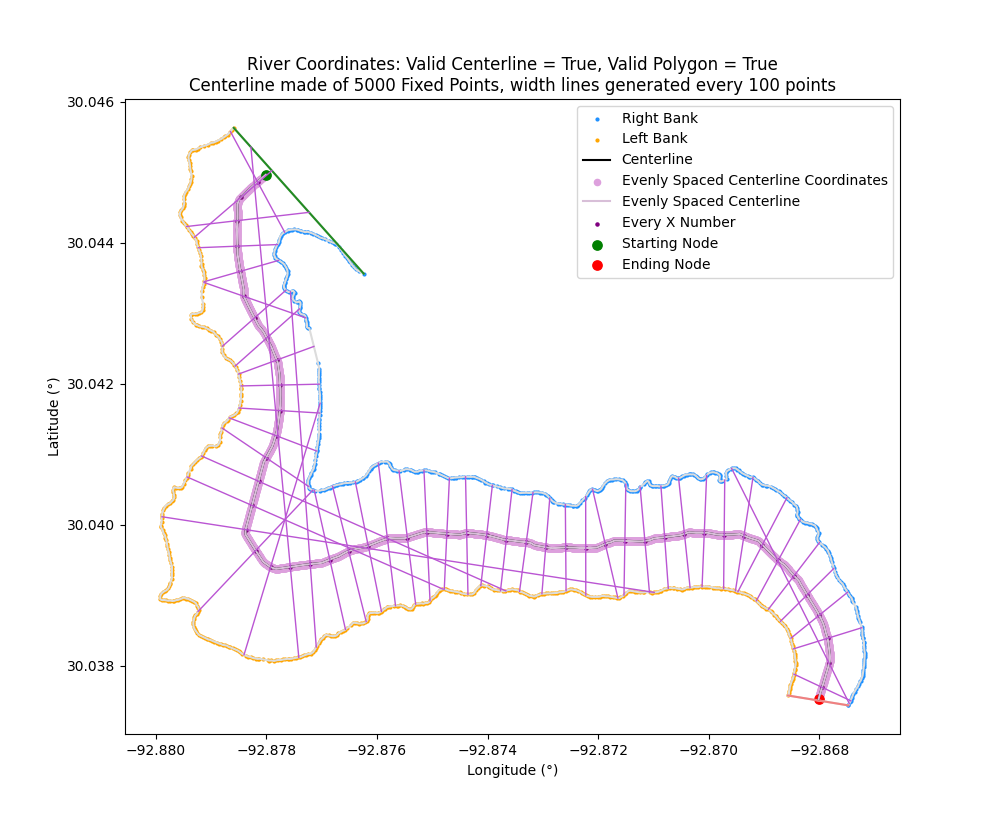
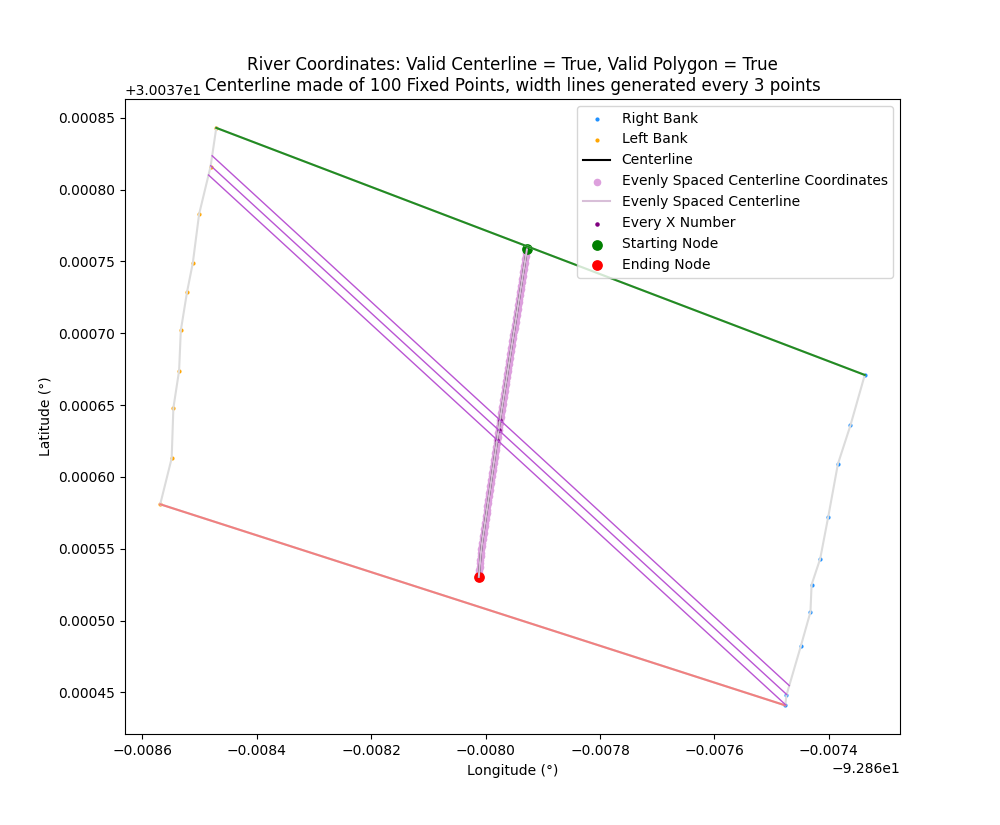
only display width lines that do not touch artifical top/bottom

diff --git a/centerline_width/centerline.py b/centerline_width/centerline.py
@@ -5,6 +5,7 @@ import numpy as np
 import pandas as pd
 import networkx as nx
 from shapely.geometry import Point, Polygon, LineString
+from scipy.ndimage import gaussian_filter1d
 
 # Internal centerline_width reference to access functions, global variables, and error handling
 import centerline_width
@@ -59,6 +60,7 @@ def networkXGraphShortestPath(all_points_dict, starting_node, ending_node):
 	if starting_node is not None:
 		graph_connections = nx.Graph()
 		node_as_keys_pos_values = {}
+		logger.info("Attempting to determine a valid centerline path")
 		for start_point, end_point_list in all_points_dict.items():
 			node_as_keys_pos_values[start_point] = (start_point[0], start_point[1])
 			graph_connections.add_node(start_point, pos=(start_point[0], start_point[1]))
@@ -110,6 +112,12 @@ def evenlySpacedCenterline(centerline_coordinates=None, number_of_fixed_points=1
 
 	return interpolated_centerline_coordinates
 
+def gaussianSmoothedCoordinates(centerline_coordinates=None, gaussian_sigma=None):
+	print("sigma = {0}".format(gaussian_sigma))
+	print("TODO: gaussian_filter1d does not work for 2D features")
+	#gaussian_filter1d(x, 0.1)
+	return centerline_coordinates
+
 def riverWidthFromCenterlineCoordinates(csv_data=None,
 										centerline_coordinates=None,
 										transect_span_distance=3,
@@ -127,7 +135,11 @@ def riverWidthFromCenterlineCoordinates(csv_data=None,
 		df = df.head(optional_cutoff)
 	left_bank_coordinates, right_bank_coordinates = centerline_width.leftRightCoordinates(df)
 	if bank_polygon is None:
-		bank_polygon, _, _ = centerline_width.generatePolygon(left_bank_coordinates, right_bank_coordinates)
+		bank_polygon, top_bank, bottom_bank = centerline_width.generatePolygon(left_bank_coordinates, right_bank_coordinates)
+	else:
+		left_bank_lst, right_bank_lst = centerline_width.leftRightCoordinates(df)
+		top_bank = LineString([Point(left_bank_lst[::-1][0][0],left_bank_lst[::-1][0][1]), Point(right_bank_lst[::-1][0][0], right_bank_lst[::-1][0][1])])
+		bottom_bank = LineString([Point(right_bank_lst[0][0], right_bank_lst[0][1]), Point(left_bank_lst[0][0], left_bank_lst[0][1])])
 
 	# Average slopes for every n points to chart
 	centerline_slope = {}
@@ -153,6 +165,17 @@ def riverWidthFromCenterlineCoordinates(csv_data=None,
 			#print(normal_of_slope)
 			centerline_slope[group_points[middle_of_list]] = normal_of_slope
 
+	def intersectsTopOrBottomOfBank(point1, point2):
+		# returns True/False if the points lie on the 'false' top/bottom of the river
+		# TODO TODO
+		points_intersect_false_edges = False
+		# avoding floating point precession errors when determining if point lies within the line
+		if top_bank.distance(point1) < 1e-8 or bottom_bank.distance(point1) < 1e-8:
+			points_intersect_false_edges = True
+		if top_bank.distance(point2) < 1e-8 or bottom_bank.distance(point2) < 1e-8:
+			points_intersect_false_edges = True
+		return points_intersect_false_edges
+
 	# Generate a list of lines from the centerline point with its normal
 	min_x, min_y, max_x, max_y = bank_polygon.bounds
 	for centerline_point, slope in centerline_slope.items():
@@ -160,11 +183,12 @@ def riverWidthFromCenterlineCoordinates(csv_data=None,
 		right_y = slope * (max_x - centerline_point[0]) + centerline_point[1]
 
 		# Save the points where they intersect the polygon
-		sloped_line = LineString([(min_x, left_y), (max_x, right_y)])
-		line_intersection_points = bank_polygon.exterior.intersection(sloped_line)
-		if len(line_intersection_points.geoms) == 2:#and slope < -0.37: # TODO: only collect the closest points
-			left_width_coordinates[centerline_point] = (line_intersection_points.geoms[0].x, line_intersection_points.geoms[0].y)
-			right_width_coordinates[centerline_point] = (line_intersection_points.geoms[1].x, line_intersection_points.geoms[1].y)
+		sloped_line = LineString([(min_x, left_y), (max_x, right_y)]) # sloped line from the centerpoint
+		line_intersection_points = bank_polygon.exterior.intersection(sloped_line) # points where the line intersects the polygon
+		if len(line_intersection_points.geoms) == 2: # TODO: only collect the closest points
+			if not intersectsTopOrBottomOfBank(line_intersection_points.geoms[0], line_intersection_points.geoms[1]):
+				left_width_coordinates[centerline_point] = (line_intersection_points.geoms[0].x, line_intersection_points.geoms[0].y)
+				right_width_coordinates[centerline_point] = (line_intersection_points.geoms[1].x, line_intersection_points.geoms[1].y)
 		else:
 			# line intersects to polygon at multiple points, find the closest two points to chart
 			distances_between_centerline_and_point = []
@@ -176,8 +200,9 @@ def riverWidthFromCenterlineCoordinates(csv_data=None,
 			index_of_sorted_list = sorted(range(len(distances_between_centerline_and_point)),key=distances_between_centerline_and_point.__getitem__)
 			smallest_point = line_intersection_points.geoms[index_of_sorted_list[0]]
 			second_smallest_point = line_intersection_points.geoms[index_of_sorted_list[1]]
-			left_width_coordinates[centerline_point] = (smallest_point.x, smallest_point.y)
-			right_width_coordinates[centerline_point] = (second_smallest_point.x, second_smallest_point.y)
+			if not intersectsTopOrBottomOfBank(smallest_point, second_smallest_point):
+				left_width_coordinates[centerline_point] = (smallest_point.x, smallest_point.y)
+				right_width_coordinates[centerline_point] = (second_smallest_point.x, second_smallest_point.y)
 
 	return right_width_coordinates, left_width_coordinates
 

diff --git a/centerline_width/plotDiagrams.py b/centerline_width/plotDiagrams.py
@@ -22,9 +22,9 @@ def plotCenterline(csv_data=None,
 					displayVoronoi=False,
 					displayCenterline=True,
 					plot_width_lines=False,
-					n_interprolate_centerpoints=100,
+					n_interprolate_centerpoints=None,
 					transect_span_distance=3,
-					gaussian_filter_sigma=0,
+					gaussian_filter_sigma=None,
 					optional_cutoff=None):
 
 	centerline_width.errorHandlingPlotCenterline(csv_data=csv_data,
@@ -41,8 +41,12 @@ def plotCenterline(csv_data=None,
 
 	# Plot river
 	df = pd.read_csv(csv_data)
-	if optional_cutoff:
+	if optional_cutoff: # only include the first x amount of the data
 		df = df.head(optional_cutoff)
+
+	if plot_width_lines and n_interprolate_centerpoints is None:
+		# if plotting width, but n_interprolate_centerpoints is undefined, set to the size of the dataframe
+		n_interprolate_centerpoints = len(df)
 
 	left_bank_coordinates, right_bank_coordinates = centerline_width.leftRightCoordinates(df)
 	river_bank_polygon, top_river_line, bottom_river_line = centerline_width.generatePolygon(left_bank_coordinates, right_bank_coordinates)
@@ -115,12 +119,27 @@ def plotCenterline(csv_data=None,
 		if starting_node is not None: # error handling for when data is too small to generate centerline coordiantes
 			evenly_spaced_centerline_coordinates = centerline_width.evenlySpacedCenterline(centerline_coordinates=shortest_path_points,
 																						number_of_fixed_points=n_interprolate_centerpoints)
-
 			right_width_coordinates, left_width_coordinates = centerline_width.riverWidthFromCenterlineCoordinates(csv_data=csv_data, 
 																												bank_polygon=river_bank_polygon,
 																												centerline_coordinates=evenly_spaced_centerline_coordinates,
 																												transect_span_distance=transect_span_distance,
 																												optional_cutoff=optional_cutoff)
+			if gaussian_filter_sigma is not None:
+				smoothed_centerline_coordinates = centerline_width.gaussianSmoothedCoordinates(centerline_coordinates=evenly_spaced_centerline_coordinates,
+																								gaussian_sigma=gaussian_filter_sigma)
+				right_width_coordinates, left_width_coordinates = centerline_width.riverWidthFromCenterlineCoordinates(csv_data=csv_data, 
+																												bank_polygon=river_bank_polygon,
+																												centerline_coordinates=smoothed_centerline_coordinates,
+																												transect_span_distance=transect_span_distance,
+																												optional_cutoff=optional_cutoff)
+				x = []
+				y = []
+				for k, v in smoothed_centerline_coordinates:
+					x.append(k)
+					y.append(v)
+				plt.scatter(x, y, c="blue", label="Smoothed Centerline Coordinates, sigma={0}".format(gaussian_filter_sigma), s=20)
+				plt.plot(*zip(*smoothed_centerline_coordinates), c="lightblue", label="Smoothed Centerline, sigma={0}".format(gaussian_filter_sigma))
+
 			x = []
 			y = []
 			for k, v in evenly_spaced_centerline_coordinates:

diff --git a/centerline_width/error_handling.py b/centerline_width/error_handling.py
@@ -85,29 +85,31 @@ def errorHandlingPlotCenterline(csv_data=None,
 		logger.critical("\nCRITICAL ERROR, [plot_width_lines]: Must be a bool, current type = '{0}'".format(type(plot_width_lines)))
 		exit()
 
-	if type(n_interprolate_centerpoints) != int:
-		logger.critical("\nCRITICAL ERROR, [n_interprolate_centerpoints]: Must be a int, current type = '{0}'".format(type(n_interprolate_centerpoints)))
-		exit()
-	else:
-		if n_interprolate_centerpoints < 2:
-			logger.critical("\nCRITICAL ERROR, [n_interprolate_centerpoints]: Must be a greater than 1, currently = '{0}'".format(n_interprolate_centerpoints))
+	if n_interprolate_centerpoints is not None:
+		if type(n_interprolate_centerpoints) != int:
+			logger.critical("\nCRITICAL ERROR, [n_interprolate_centerpoints]: Must be a int, current type = '{0}'".format(type(n_interprolate_centerpoints)))
 			exit()
+		else:
+			if n_interprolate_centerpoints < 2:
+				logger.critical("\nCRITICAL ERROR, [n_interprolate_centerpoints]: Must be a greater than 1, currently = '{0}'".format(n_interprolate_centerpoints))
+				exit()
 
 	if type(transect_span_distance) != int:
 		logger.critical("\nCRITICAL ERROR, [transect_span_distance]: Must be a int, current type = '{0}'".format(type(transect_span_distance)))
 		exit()
 	else:
 		if transect_span_distance < 3:
-			logger.critical("\nCRITICAL ERROR, [transect_span_distance]: Must be a greater than 2, currently = '{0}'".format(transect_span_distance))
+			logger.critical("\nCRITICAL ERROR, [transect_span_distance]: Must be a greater than 2 to find the slope between at least two points, currently = '{0}'".format(transect_span_distance))
 			exit()
 
-	if type(gaussian_filter_sigma) != int:
-		logger.critical("\nCRITICAL ERROR, [gaussian_filter_sigma]: Must be a int, current type = '{0}'".format(type(gaussian_filter_sigma)))
-		exit()
-	else:
-		if gaussian_filter_sigma < 0:
-			logger.critical("\nCRITICAL ERROR, [gaussian_filter_sigma]: Must be a greater than 0, currently = '{0}'".format(gaussian_filter_sigma))
+	if gaussian_filter_sigma is not None:
+		if type(gaussian_filter_sigma) != int:
+			logger.critical("\nCRITICAL ERROR, [gaussian_filter_sigma]: Must be a int, current type = '{0}'".format(type(gaussian_filter_sigma)))
 			exit()
+		else:
+			if gaussian_filter_sigma <= 0:
+				logger.critical("\nCRITICAL ERROR, [gaussian_filter_sigma]: Must be a greater than 0, currently = '{0}'".format(gaussian_filter_sigma))
+				exit()
 
 	if optional_cutoff is not None and type(optional_cutoff) != int:
 		logger.critical("\nCRITICAL ERROR, [optional_cutoff]: Must be a int, current type = '{0}'".format(type(optional_cutoff)))

diff --git a/river_centerline_width_example.py b/river_centerline_width_example.py
@@ -2,16 +2,18 @@
 import centerline_width
 
 if __name__ == "__main__":
-	centerline_width.extractPointsToTextFile(left_kml="data/leftbank.kml", right_kml="data/rightbank.kml", text_output_name="data/river_coords.txt")
+	centerline_width.extractPointsToTextFile(left_kml="data/leftbank.kml",
+											right_kml="data/rightbank.kml",
+											text_output_name="data/river_coords.txt")
 	centerline_width.convertColumnsToCSV(text_file="data/river_coords.txt", flipBankDirection=True)
 
 	# Valid Examples
 	cutoff = None
-	#cutoff = 10
+	cutoff = 10
 	#cutoff = 15 # valid centerline, valid path, valid polygon, valid starting node, valid ending node
 	#cutoff = 30
 	#cutoff = 100 # valid centerline, valid path, valid polygon, valid starting node, valid ending node
-	cutoff = 550 # valid centerline, valid path, valid polygon, valid starting node, valid ending node
+	#cutoff = 550 # valid centerline, valid path, valid polygon, valid starting node, valid ending node
 	# Invalid Examples
 	#cutoff = 5 # invalid centerline, invalid path, valid polygon, invalid starting node, invalid ending nodes
 	#cutoff = 250 # valid centerline, valid path, invalid polygon, valid starting node, valid ending nodes
@@ -31,8 +33,9 @@ if __name__ == "__main__":
 									save_plot_name="data/river_coords_width.png", 
 									displayCenterline=True,
 									plot_width_lines=True,
-									n_interprolate_centerpoints=5000,
-									transect_span_distance=100,
+									n_interprolate_centerpoints=100,
+									transect_span_distance=3,
+									gaussian_filter_sigma=None,
 									optional_cutoff=cutoff)
 	exit()
 	# Return the latitude/longtiude coordinates for the centerline

diff --git a/centerline_width/__init__.py b/centerline_width/__init__.py
@@ -14,6 +14,7 @@ from .centerline import networkXGraphShortestPath
 from .centerline import centerlineLatitudeLongitude
 from .centerline import centerlineLength
 from .centerline import evenlySpacedCenterline
+from .centerline import gaussianSmoothedCoordinates
 from .centerline import riverWidthFromCenterlineCoordinates
 from .centerline import riverWidthFromCenterline
 

diff --git a/README.md b/README.md
@@ -163,7 +163,7 @@ plotCenterline(csv_data=None,
 		save_plot_name=None, 
 		displayCenterline=True,
 		plot_width_lines=False,
-		n_interprolate_centerpoints=100,
+		n_interprolate_centerpoints=None,
 		transect_span_distance=3,
 		optional_cutoff=None)
 ```
@@ -173,8 +173,8 @@ COMING SOON:
 * [OPTIONAL] save_plot_name (string): Save the plot with a given name and location
 * [OPTIONAL] displayCenterline (boolean): Display generated centerline
 * [OPTIONAL] plot_width_lines (boolean): Display Centerline at even intervals Voronoi generated centerline
-* [OPTIONAL] n_interprolate_centerpoints (int): <>
-* [OPTIONAL] transect_span_distance (int): <>
+* [OPTIONAL] n_interprolate_centerpoints (int): Recreate centerline coordinates with n evenly spaced points, defaults to the number of rows in the csv file
+* [OPTIONAL] transect_span_distance (int): Sum up n amount of points around a centerpoint to determine the slope (increase to decrease the impact of sudden changes), defaults to 6, must be greater than 2 (since the slope is found from the difference in position between two points)
 
 ![transect_span_distance](https://user-images.githubusercontent.com/22159116/227870492-69d105b2-0d3e-4d50-90d9-e938400a58fb.png)
 
